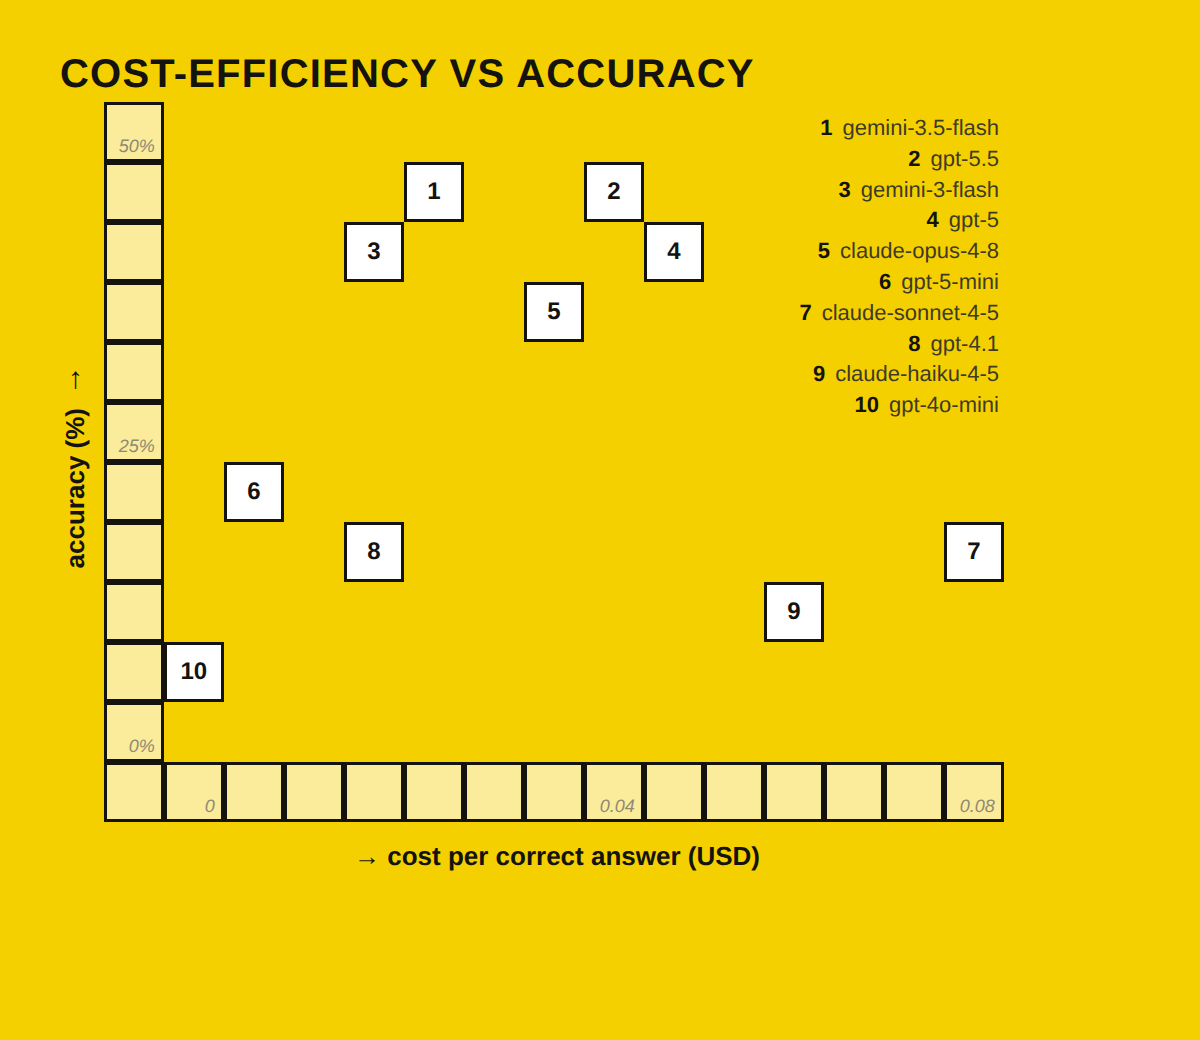
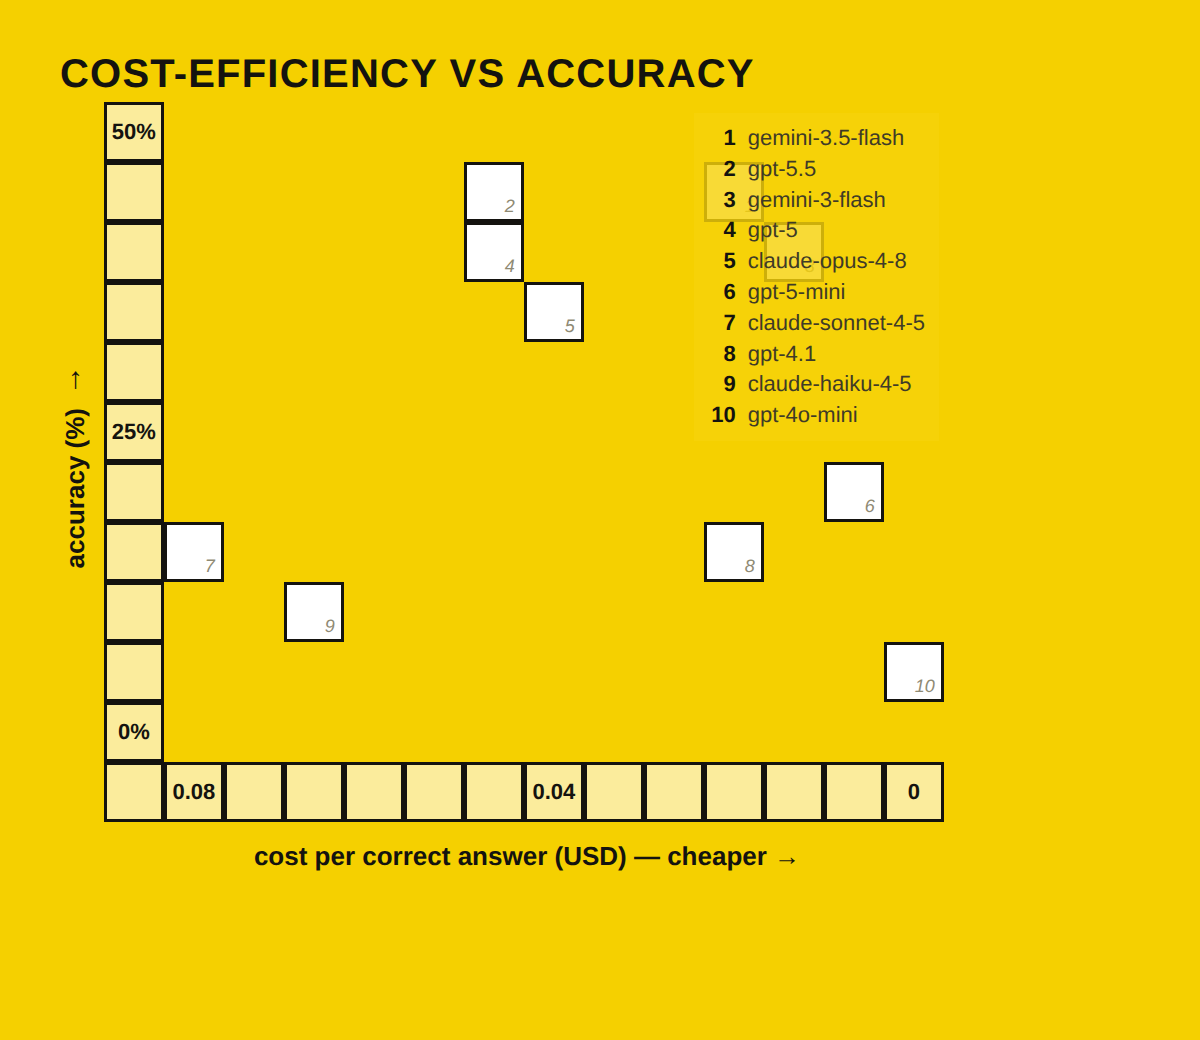
Scatter + heatmap review tweaks
Scatter: axis values centred+bold (data point numbers now bottom-right/light);
flip-X option (lower cost = better, on the right); even tick spacing (even grid);
legend left-aligned labels with a subtle backdrop so it reads over points.
Heatmap: light-only greyscale with dark value text everywhere (no per-cell text
color switch); 'reveal %' moved to a centred top title + vertical 'length' title.
All new colors centralized in :root.

diff --git a/viz/puzzle-charts.js b/viz/puzzle-charts.js
@@ -88,8 +88,8 @@
     const container = resolve(el);
     container.innerHTML = "";
     const o = Object.assign(
-      { cols: 14, rows: 11, xLabel: "x", yLabel: "y", unit: "", xUnit: "", yUnit: "",
-        xMin: null, xMax: null, yMin: null, yMax: null, legendCols: 2, cell: null },
+      { cols: 14, rows: 12, xLabel: "x", yLabel: "y", unit: "", xUnit: "", yUnit: "",
+        xMin: null, xMax: null, yMin: null, yMax: null, flipX: false, cell: null },
       opts
     );
     const pts = o.points;
@@ -99,7 +99,11 @@
     const yMin = o.yMin != null ? o.yMin : Math.min(0, ...ys);
     const yMax = o.yMax != null ? o.yMax : Math.max(...ys);
     const C = o.cols, R = o.rows;
-    const col = (x) => 1 + Math.round(((x - xMin) / (xMax - xMin || 1)) * (C - 2)); // col 0 = y-axis
+    const col = (x) => {
+      let f = (x - xMin) / (xMax - xMin || 1);
+      if (o.flipX) f = 1 - f;                       // lower-is-better: small x on the right
+      return 1 + Math.round(f * (C - 2));            // col 0 = y-axis
+    };
     const row = (y) => R - 2 - Math.round(((y - yMin) / (yMax - yMin || 1)) * (R - 2)); // last row = x-axis
 
     const p = panel(container, o);
@@ -135,23 +139,21 @@
       if (c === 0 || r === R - 1) sq.classList.add("pz-axis"); // bordered light-yellow cross
       cells[r + "," + c] = sq;
     }
-    // axis ticks: hint-styled (italic grey, bottom-right of the cell) at min/mid/max
-    const xtick = (frac, val) => {
-      const c = 1 + Math.round(frac * (C - 2));
-      make("pz-hint", cells[(R - 1) + "," + c], fmt(val, o.xUnit));
-    };
-    const ytick = (frac, val) => {
-      const r = R - 2 - Math.round(frac * (R - 2));
-      make("pz-hint", cells[r + ",0"], fmt(val, o.yUnit));
-    };
-    [0, 0.5, 1].forEach((f) => { xtick(f, xMin + f * (xMax - xMin)); ytick(f, yMin + f * (yMax - yMin)); });
+    // axis ticks: centred + bold in the axis cells (like the heatmap headers),
+    // placed with the same mapping as the data so spacing stays consistent.
+    [0, 0.5, 1].forEach((f) => {
+      const xv = xMin + f * (xMax - xMin);
+      make("pz-axval", cells[(R - 1) + "," + col(xv)], fmt(xv, o.xUnit));
+      const yv = yMin + f * (yMax - yMin);
+      make("pz-axval", cells[row(yv) + ",0"], fmt(yv, o.yUnit));
+    });
 
-    // points
+    // points: number is bottom-right + light (hint style)
     pts.forEach((pt, i) => {
       const [r, c] = place(Math.min(R - 2, Math.max(0, row(pt.y))), Math.min(C - 1, Math.max(1, col(pt.x))));
       const sq = cells[r + "," + c];
       sq.className = "pz-sq pz-pt";
-      sq.textContent = String(i + 1);
+      make("pz-hint", sq, String(i + 1));
     });
 
     // legend: overlaid top-right of the plot — just numbers + labels, no cells.
@@ -180,35 +182,39 @@
     const container = resolve(el);
     container.innerHTML = "";
     const o = Object.assign(
-      { unit: "", cell: 50, colTitle: "", min: null, max: null }, opts
+      { unit: "", cell: 50, colTitle: "", rowTitle: "", min: null, max: null }, opts
     );
     const vals = o.values.flat().filter((v) => v != null);
     const lo = o.min != null ? o.min : Math.min(...vals);
     const hi = o.max != null ? o.max : Math.max(...vals);
     const p = panel(container, o);
-
     const cols = o.colLabels.length;
-    const hm = make("pz-hm", p);
+
+    // column-axis title, centred over the data columns (above the headers)
+    if (o.colTitle) {
+      const top = make("pz-hm-coltitle", p, o.colTitle);
+      top.style.marginLeft = ((o.rowTitle ? 18 : 0) + o.cell) + "px";
+      top.style.width = cols * o.cell + "px";
+    }
+
+    const body = make("pz-hm-body", p);
+    if (o.rowTitle) make("pz-hm-rowtitle", body, o.rowTitle); // vertical row-axis title
+    const hm = make("pz-hm", body);
     hm.style.setProperty("--pz-cell", o.cell + "px");
     hm.style.gridTemplateColumns = `repeat(${cols + 1}, ${o.cell}px)`; // square header + cells
 
-    // header row: corner + column labels
     make("pz-hm-head pz-hm-corner", hm);
     o.colLabels.forEach((cl) => make("pz-hm-head", hm, cl));
-
     o.rowLabels.forEach((rl, r) => {
       make("pz-hm-head", hm, rl);
       o.colLabels.forEach((_, c) => {
         const v = o.values[r][c];
         const cell = make("pz-hm-cell", hm);
         if (v == null) { cell.style.background = "transparent"; cell.style.borderColor = "transparent"; return; }
-        const t = (v - lo) / (hi - lo || 1);
-        cell.style.background = ramp(t);                 // greyscale ramp
-        const hint = make("pz-hint", cell, fmt(v, o.unit)); // the "hint value" = the number
-        if (t > 0.55) hint.classList.add("on-dark");     // light hint on dark cells
+        cell.style.background = ramp((v - lo) / (hi - lo || 1)); // light greyscale ramp
+        make("pz-hint", cell, fmt(v, o.unit));                   // value; dark text via CSS
       });
     });
-    if (o.colTitle) make("pz-hm-axis-title", p, o.colTitle);
     return p;
   }
 

diff --git a/viz/puzzle-charts.css b/viz/puzzle-charts.css
@@ -13,10 +13,13 @@
   --pz-hint: #8f8a73;            /* the small italic "hint" numbers */
   --pz-hint-on-dark: #e7e3d2;    /* hint numbers on dark heatmap cells */
   --pz-cell-bg: #ffffff;         /* puzzle cell fill */
+  --pz-legend-bg: rgba(246, 210, 10, 0.82); /* subtle backdrop behind the scatter legend */
 
-  /* heatmap ramp — greyscale (low -> high). Axes stay yellow (--pz-light). */
-  --pz-hm-low: 240, 239, 234;    /* near-white */
-  --pz-hm-high: 51, 50, 46;      /* near-black */
+  /* heatmap ramp — light greyscale only (low -> high), so dark text reads on
+     every cell. Axes stay yellow (--pz-light). */
+  --pz-hm-low: 249, 248, 244;    /* near-white */
+  --pz-hm-high: 166, 165, 158;   /* light-medium grey */
+  --pz-hm-text: #211f18;         /* heatmap value text (dark, everywhere) */
 
   --pz-cell: 30px;               /* default cell size */
   --pz-border: 1.6px;            /* gridline thickness */
@@ -42,7 +45,6 @@
   font-style: italic;
   color: var(--pz-hint);
 }
-.pz-hint.on-dark { color: var(--pz-hint-on-dark); }
 
 /* ---- bar chart -------------------------------------------------------- */
 .pz-bar-row { display: flex; align-items: center; margin: 0 0 9px; }
@@ -78,18 +80,29 @@
   margin: calc(var(--pz-border) * -1) 0 0 calc(var(--pz-border) * -1);
 }
 .pz-grid .pz-sq.pz-axis { background: var(--pz-light); border-color: var(--pz-ink); }  /* bordered cross */
-.pz-grid .pz-sq.pz-pt {
-  background: var(--pz-cell-bg); border-color: var(--pz-ink);
-  display: flex; align-items: center; justify-content: center; font-size: 12px; font-weight: 800;
+.pz-grid .pz-sq.pz-pt { background: var(--pz-cell-bg); border-color: var(--pz-ink); }
+.pz-axval {                      /* axis tick value: centred + bold (like heatmap headers) */
+  position: absolute; inset: 0;
+  display: flex; align-items: center; justify-content: center;
+  font-size: 11px; font-weight: 700; color: var(--pz-ink);
 }
-.pz-legend-ov {                  /* overlaid, top-right, no cells — just numbers + labels */
+.pz-legend-ov {                  /* overlaid, top-right, no cells — numbers + left-aligned labels */
   position: absolute; top: 4px; right: 4px;
-  text-align: right; font-size: 11px; line-height: 1.4; color: var(--pz-ink);
+  font-size: 11px; line-height: 1.4; text-align: left;
+  background: var(--pz-legend-bg); padding: 5px 7px; /* subtle backdrop so it reads over points */
 }
-.pz-legend-ov .n { font-weight: 800; margin-right: 5px; }
+.pz-legend-ov > div { display: flex; gap: 6px; }
+.pz-legend-ov .n { font-weight: 800; min-width: 14px; text-align: right; }
 .pz-legend-ov .l { color: #3f3b27; }
 
 /* ---- heatmap --------------------------------------------------------- */
+.pz-hm-body { display: flex; align-items: stretch; }
+.pz-hm-rowtitle {                /* vertical "length" title on the left */
+  writing-mode: vertical-rl; transform: rotate(180deg);
+  display: flex; align-items: center; justify-content: center;
+  width: 18px; font-size: 12px; font-weight: 800;
+}
+.pz-hm-coltitle { text-align: center; font-size: 12px; font-weight: 800; margin-bottom: 5px; box-sizing: border-box; }
 .pz-hm { display: inline-grid; }
 .pz-hm-cell, .pz-hm-head {
   width: var(--pz-cell); height: var(--pz-cell);
@@ -101,4 +114,4 @@
 }
 .pz-hm-head { font-size: 12px; font-weight: 700; background: var(--pz-light); }   /* axes stay yellow */
 .pz-hm-corner { background: transparent; border-color: transparent; }
-.pz-hm-axis-title { font-size: 12px; font-weight: 800; margin-top: 8px; }
+.pz-hm-cell .pz-hint { color: var(--pz-hm-text); }   /* dark value text on every (light) cell */

diff --git a/viz/index.html b/viz/index.html
@@ -52,11 +52,11 @@
     // 2) SCATTER: cost per correct answer (x) vs accuracy (y).
     PuzzleCharts.scatter("#scatter", {
       title: "Cost-efficiency vs accuracy",
-      xLabel: "→  cost per correct answer (USD)",
-      yLabel: "accuracy (%)  ↑",
+      xLabel: "cost per correct answer (USD) — cheaper →",
+      yLabel: "accuracy (%)",
       xUnit: "", yUnit: "%",
       xMin: 0, xMax: 0.08, yMin: 0, yMax: 50,
-      cols: 15, rows: 12, legendCols: 2,
+      cols: 14, rows: 12, flipX: true,  // flipX: lower cost (better) on the right
       points: [
         { label: "gemini-3.5-flash", x: 0.023, y: 46.7 },
         { label: "gpt-5.5", x: 0.044, y: 43.3 },
@@ -77,6 +77,7 @@
       subtitle: "gpt-5-mini",
       unit: "%",
       colTitle: "reveal %",
+      rowTitle: "length",
       colLabels: ["0%", "25%", "50%", "75%"],
       rowLabels: ["3-4", "5-6", "7-8", "9-10", "11+"],
       values: [

diff --git a/viz/_shot.html b/viz/_shot.html
@@ -25,9 +25,9 @@
     } else if (which === "scatter") {
       PuzzleCharts.scatter("#c", {
         title: "Cost-efficiency vs accuracy",
-        xLabel: "→  cost per correct answer (USD)", yLabel: "accuracy (%)  ↑",
+        xLabel: "cost per correct answer (USD) — cheaper \u2192", yLabel: "accuracy (%)",
         xUnit: "", yUnit: "%", xMin: 0, xMax: 0.08, yMin: 0, yMax: 50,
-        cols: 15, rows: 12, legendCols: 2,
+        cols: 14, rows: 12, flipX: true,
         points: [
           { label: "gemini-3.5-flash", x: 0.023, y: 46.7 }, { label: "gpt-5.5", x: 0.044, y: 43.3 },
           { label: "gemini-3-flash", x: 0.016, y: 40.8 }, { label: "gpt-5", x: 0.050, y: 38.3 },
@@ -39,7 +39,7 @@
     } else {
       PuzzleCharts.heatmap("#c", {
         title: "Accuracy: length × reveal", subtitle: "gpt-5-mini",
-        unit: "%", colTitle: "reveal %",
+        unit: "%", colTitle: "reveal %", rowTitle: "length",
         colLabels: ["0%", "25%", "50%", "75%"], rowLabels: ["3-4", "5-6", "7-8", "9-10", "11+"],
         values: [[37,67,83,90],[40,70,73,93],[13,40,57,80],[7,40,60,90],[13,23,63,77]],
       });

diff --git a/viz/README.md b/viz/README.md
@@ -54,9 +54,10 @@ numbered white cell; a legend maps numbers → labels (+ coordinates).
 | `xLabel`, `yLabel` | `"x"`,`"y"` | axis titles |
 | `xUnit`, `yUnit` | `""` | tick/legend units |
 | `xMin/xMax/yMin/yMax` | auto | axis range |
-| `cols`, `rows` | `14`, `11` | grid resolution |
-| `legendCols` | `2` | legend columns |
-| `showCoords` | `true` | show `(x, y)` in the legend |
+| `cols`, `rows` | `14`, `12` | grid resolution (keep `cols`/`rows` even so the 0/mid/max ticks are evenly spaced) |
+| `flipX` | `false` | reverse the x-axis (e.g. cost, where lower = better → small values on the right) |
+
+Axis tick values render centred + bold in the axis cells; point numbers render bottom-right (hint style); the legend is overlaid top-right (numbers + left-aligned labels).
 
 ## Heatmap — `PuzzleCharts.heatmap(el, opts)`
 A grid shaded in yellows (pale→gold); the **hint value is the number** in each
@@ -68,8 +69,11 @@ cell.
 | `values` | — | 2-D array `[rows][cols]` (use `null` to blank a cell) |
 | `unit` | `""` | appended to each value |
 | `min`, `max` | auto | color-ramp bounds |
-| `colTitle` | `""` | label under the grid |
-| `cell` | `46` | cell size in px |
+| `colTitle` | `""` | column-axis title (centred above the columns) |
+| `rowTitle` | `""` | row-axis title (vertical, left) |
+| `cell` | `50` | cell size in px |
+
+Cells use a light greyscale ramp (axes stay yellow) so the dark value text is readable on every cell.
 
 ## Plugging in the real research data
 The example data mirrors the report: